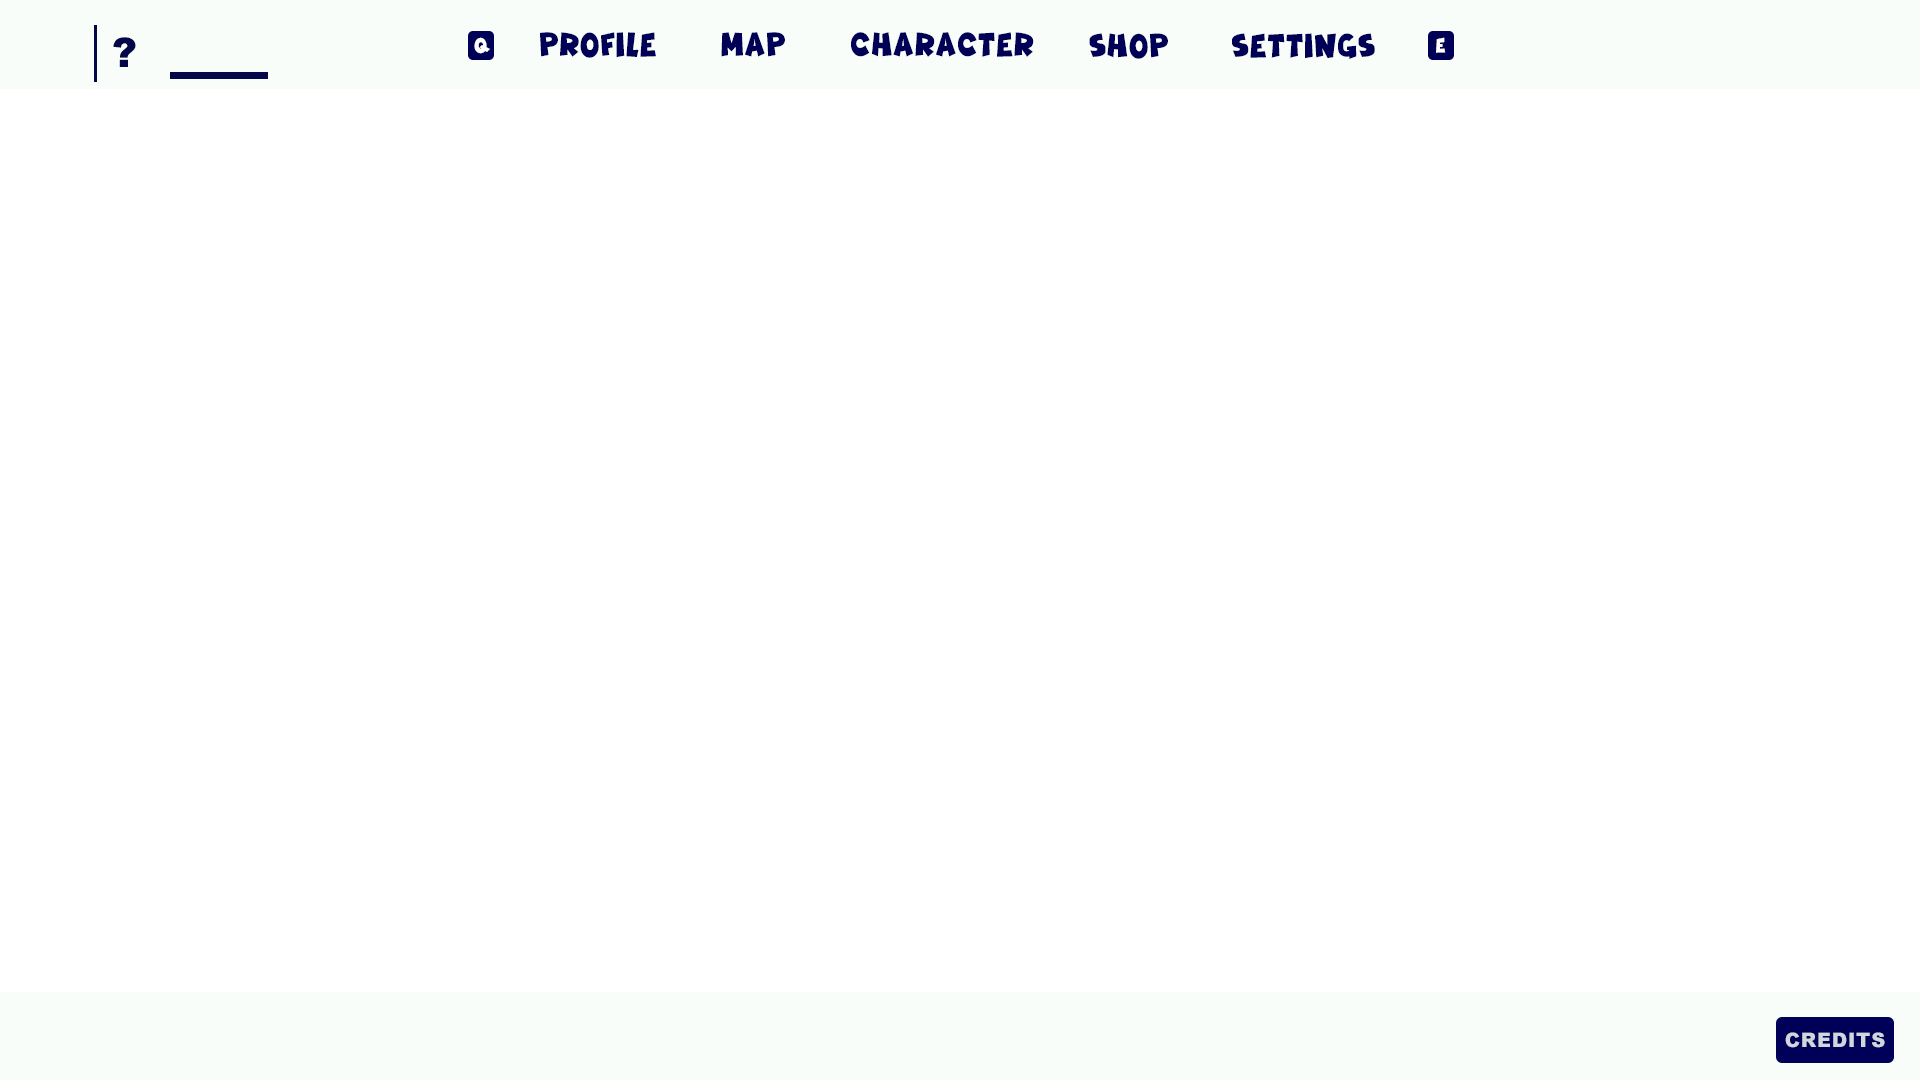
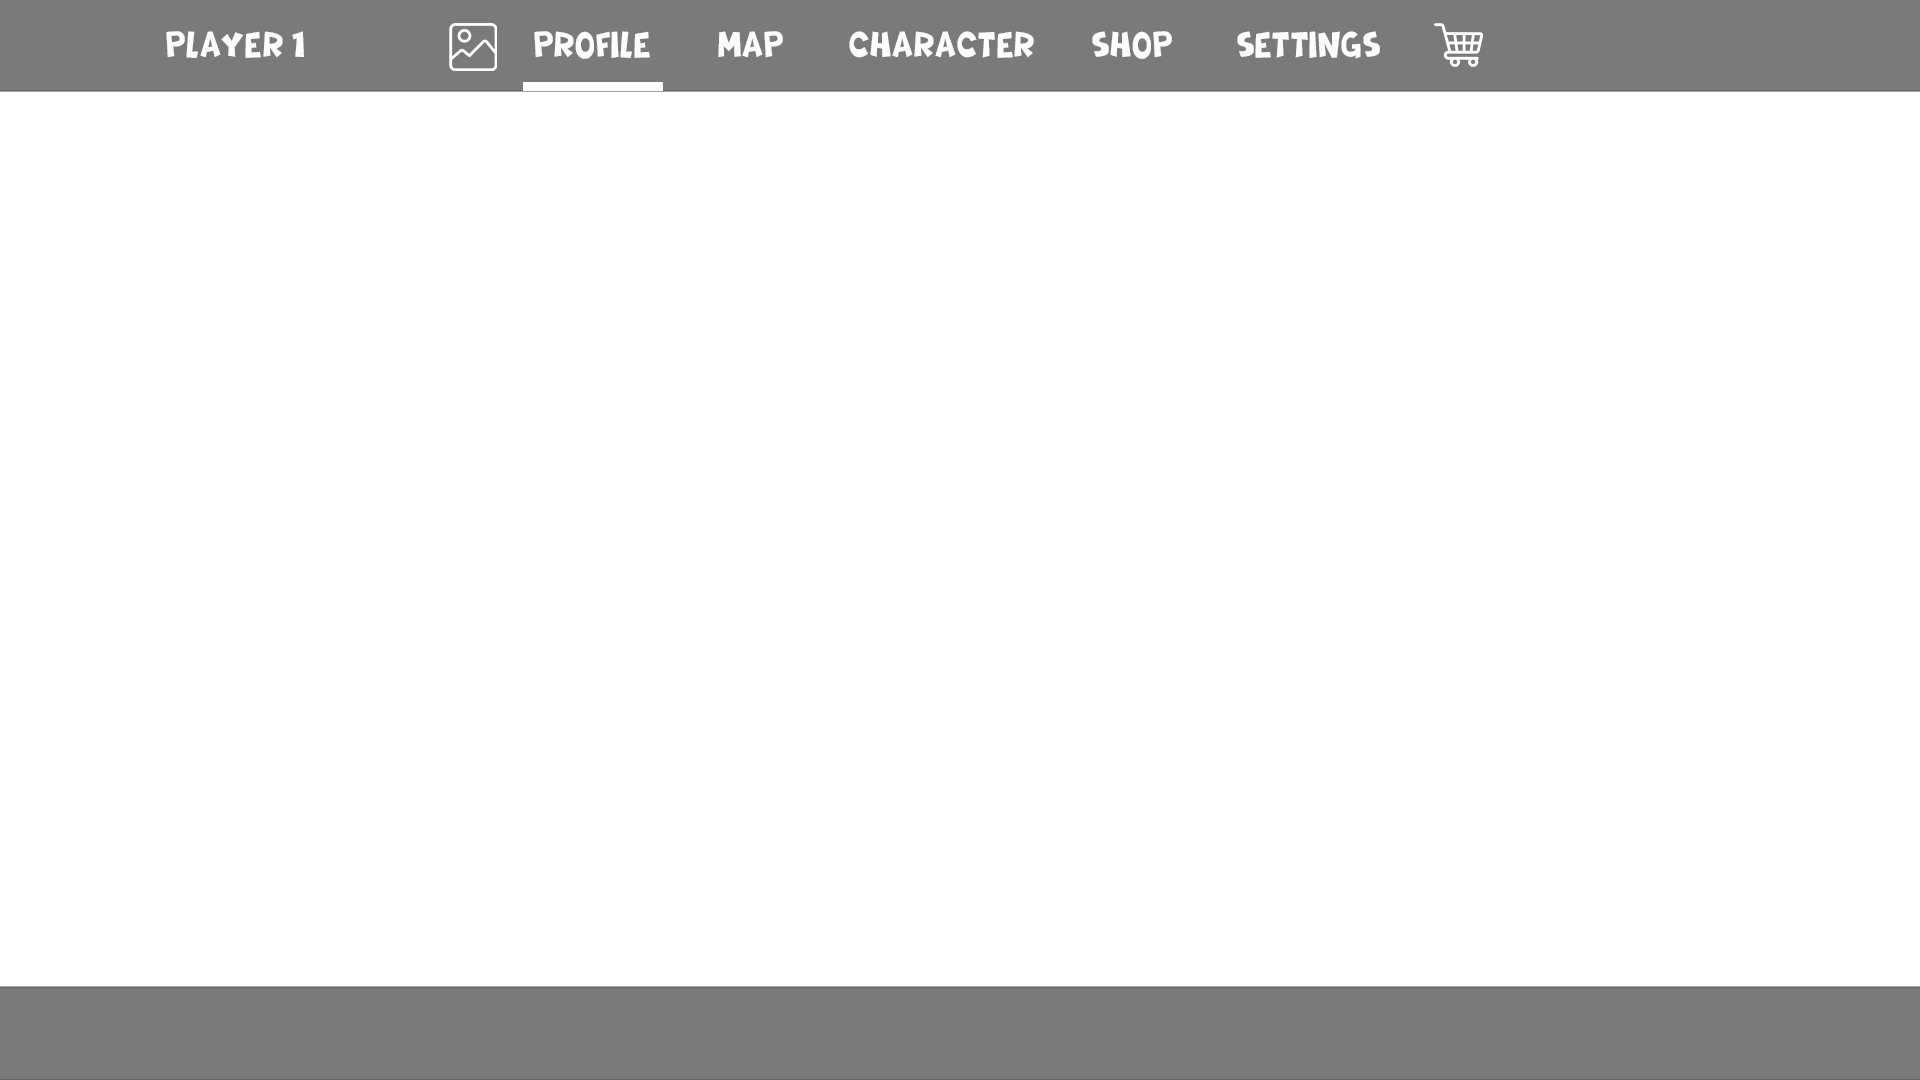
fix ui things

Changed region(s): [[0.0, 0.8861, 1.0, 1.0], [0.0, 0.0, 1.0, 0.0917]]

diff --git a/Assets/Scripts/Menu Scripts/Button/ButtonClickMangments.cs b/Assets/Scripts/Menu Scripts/Button/ButtonClickMangments.cs
@@ -15,7 +15,7 @@ public class ButtonClickMangments : MonoBehaviour,IButtonClickMangment
      public List<Sprite> images = new List<Sprite>();
      public List<GameObject> buttons = new List<GameObject>();
      public Transform theImage;
-     
+     public GameObject lightFade;
      
      [Header("Main and Character Camera")]
      public Camera characterCamera;
@@ -61,10 +61,15 @@ public class ButtonClickMangments : MonoBehaviour,IButtonClickMangment
                 ActiveCamera();
                 ActiveButtons();
                 ActiveCharacter();
+                HideShowFade();
             }
         }
     }
 
+    public void HideShowFade()
+    {
+        lightFade.SetActive(GetCurrentMode().Equals("Map"));
+    }
     public string GetCurrentMode()
     {
         Image img = theImage.GetComponent<Image>();

diff --git a/Assets/Scripts/Game Scripts/MultiPlayer/CreateJoinRooms.cs b/Assets/Scripts/Game Scripts/MultiPlayer/CreateJoinRooms.cs
@@ -92,7 +92,7 @@ public class CreateJoinRooms : MonoBehaviourPunCallbacks
 
             string roomName = room.Name;
 
-            button.GetComponentInChildren<Text>().text = roomName; // إظهار الاسم على الزر
+            button.GetComponentInChildren<Text>().text = roomName; 
 
             button.GetComponent<Button>().onClick.AddListener(() =>
             {

diff --git a/Assets/Scripts/Game Scripts/Player/Player.cs b/Assets/Scripts/Game Scripts/Player/Player.cs
@@ -10,7 +10,7 @@ public class Player : MonoBehaviour
     private float rotationSpeed = 10.0f;
     
     // JUMP FORCES
-    private float jumpForce = 2.0f;
+    private float jumpForce = 1.0f;
     private float gravity = -9.81f;
 
     private TextMeshPro playerName;
